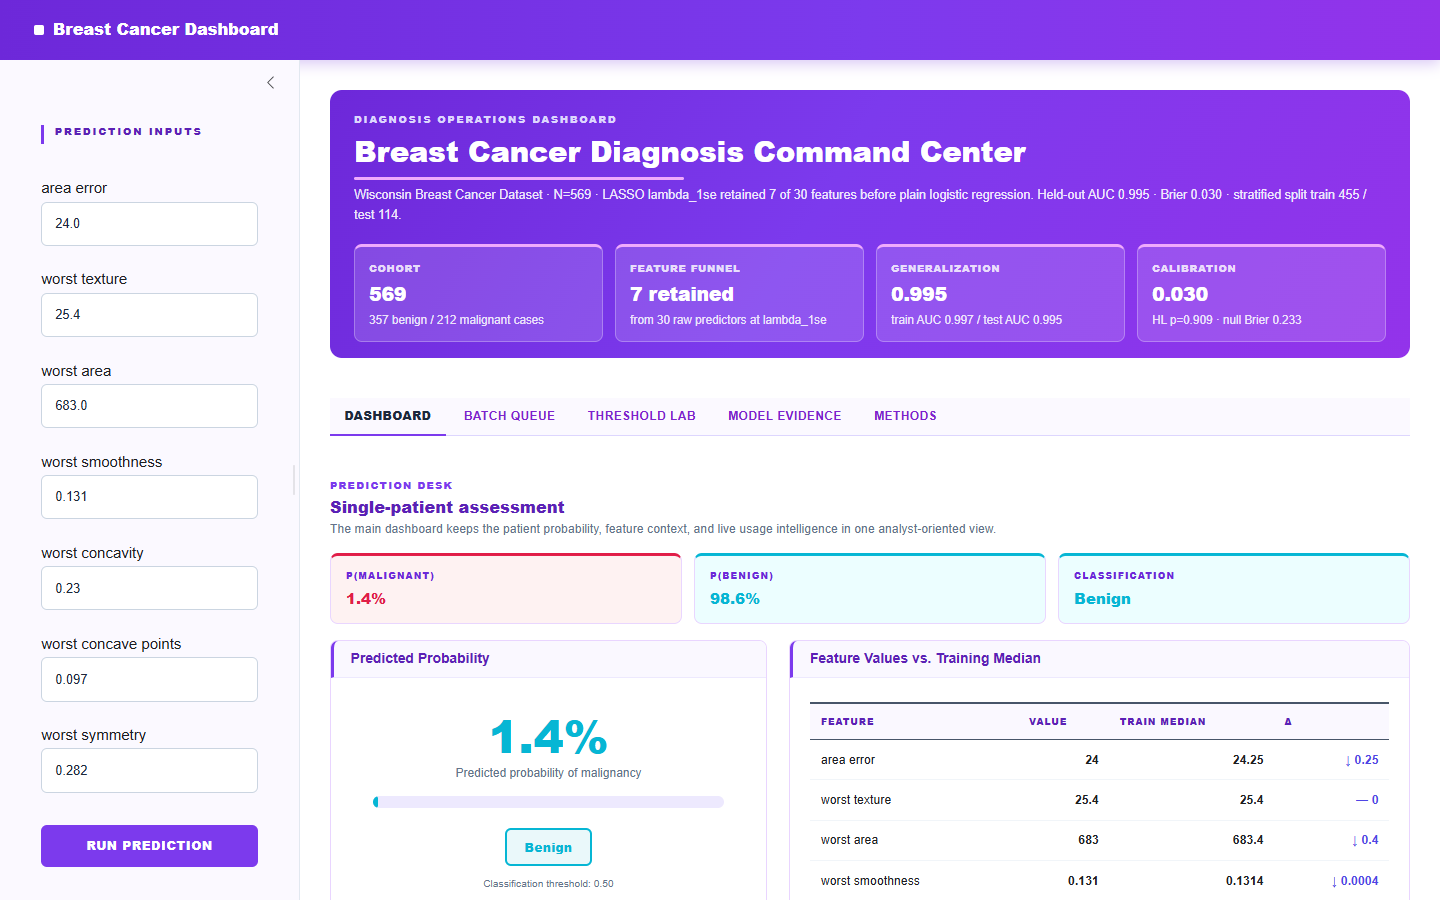
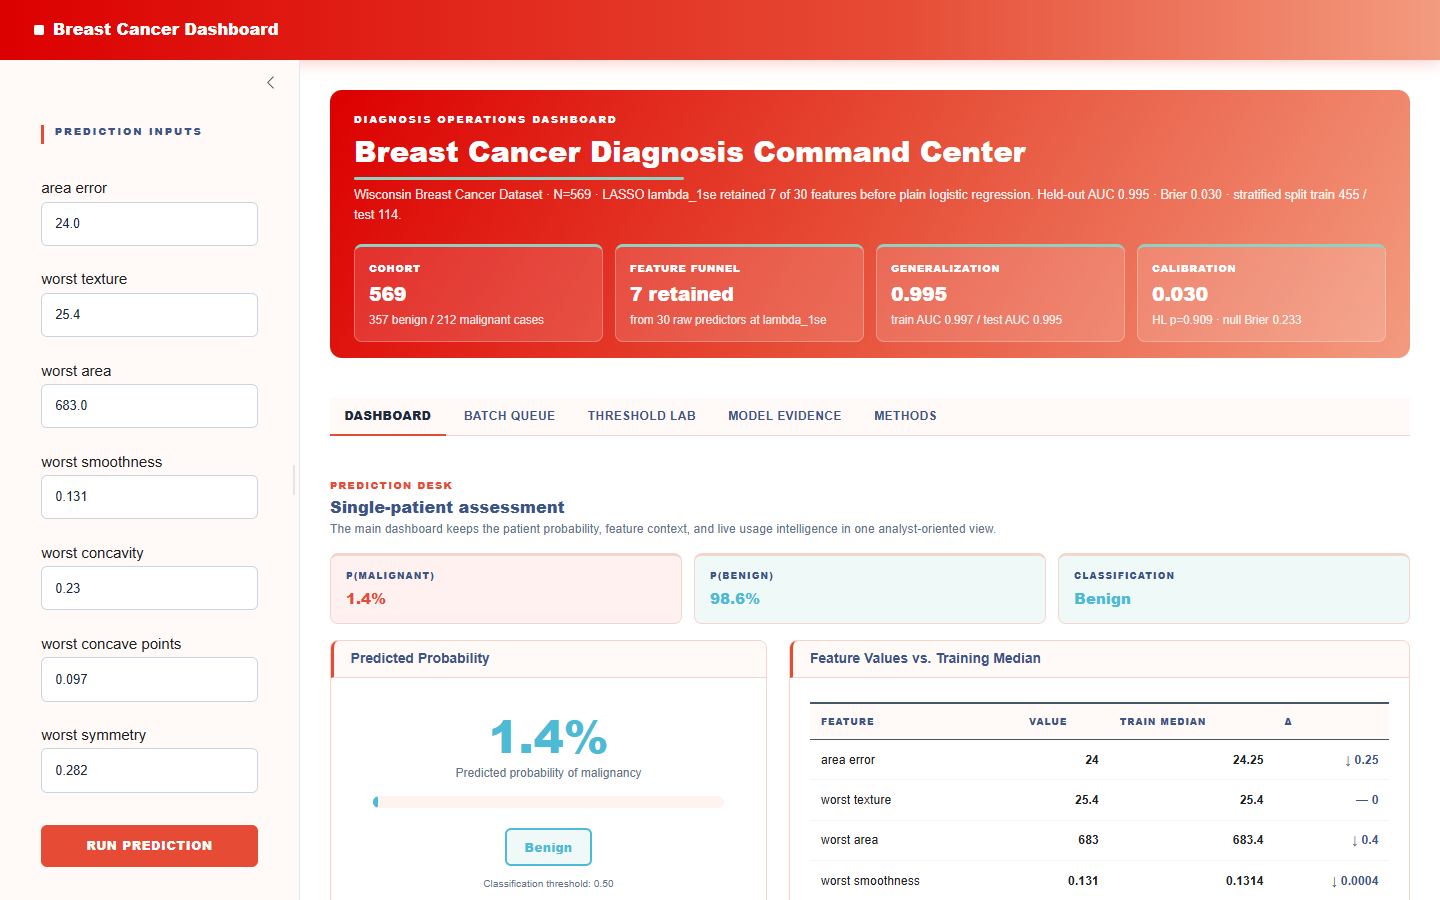
Refresh app color palette

diff --git a/breast_cancer_app.py b/breast_cancer_app.py
@@ -80,16 +80,16 @@ CLR_1SE   = CELL_COLORS[7]
 CLR_MIN   = CELL_COLORS[8]
 CLR_REF   = CELL_COLORS[5]
 _MUTED    = "#64748B"
-_NAVY     = "#4F46E5"
-_ORANGE   = "#F59E0B"
-_EDGE     = "#94A3B8"
-_FAINT    = "#A78BFA"
+_NAVY     = CELL_COLORS[3]
+_ORANGE   = CELL_COLORS[4]
+_EDGE     = CELL_COLORS[5]
+_FAINT    = CELL_COLORS[6]
 _INK_BC   = "#111111"   # reference rules / misc ink
 _AXIS_BC  = "#334155"   # axis spines
 _TICK_BC  = "#475569"   # tick marks / tick labels
 _LABEL_BC = "#1E293B"   # axis labels
-_GRID_BC  = "#EDE9FE"   # subtle lavender gridlines
-_PANEL_BC = "#7C3AED"   # violet panel letters (A, B, ...)
+_GRID_BC  = "#E2E8F0"   # neutral reference grid colour
+_PANEL_BC = CELL_COLORS[0]  # red panel letters (A, B, ...)
 
 plt.rcParams.update({
     "font.family":         "Arial",
@@ -478,7 +478,7 @@ def _fig_buf(fig) -> str:
 
 
 def _P(ax, letter, fs=10.5):
-    """Journal-style panel label: bold violet letter above top-left."""
+    """Journal-style panel label: bold Cell red letter above top-left."""
     ax.set_title(letter, fontsize=fs, fontweight="bold",
                  loc="left", pad=3, color=_PANEL_BC)
 
@@ -950,11 +950,11 @@ def _make_visit_map_bc(visits, user_lat=None, user_lon=None):
 _CSS = """
 
 :root{
-  --red:#E11D48;--blue:#06B6D4;--teal:#A855F7;--navy:#7C3AED;--salmon:#EC4899;
-  --lav:#A78BFA;--mint:#A78BFA;--crimson:#DC2626;--brown:#64748B;--tan:#F59E0B;
+  --red:#E64B35;--blue:#4DBBD5;--teal:#00A087;--navy:#3C5488;--salmon:#F39B7F;
+  --lav:#8491B4;--mint:#91D1C2;--crimson:#DC0000;--brown:#7E6148;--tan:#B09C85;
   --ink:#1E293B;--muted:#64748B;--surface:#FFFFFF;--bg:#FFFFFF;
   --line:#E2E8F0;--line-strong:#CBD5E1;
-  --accent:#7C3AED;--accent-dark:#6D28D9;
+  --accent:#E64B35;--accent-dark:#DC0000;
   --r:8px;--rs:6px;
   --font:'Arial','Helvetica Neue',Helvetica,'Liberation Sans','DejaVu Sans',sans-serif;
   --serif:'Arial','Helvetica Neue',Helvetica,'Liberation Sans',sans-serif;
@@ -968,9 +968,9 @@ html,body{
   color:var(--ink);
   -webkit-font-smoothing:antialiased;
 }
-/* Masthead — journal style: white bar, hairline, purple rule */
+/* Masthead — Cell red clinical theme. */
 .navbar{
-  background:linear-gradient(90deg,#6D28D9,#7C3AED 60%,#9333EA)!important;
+  background:linear-gradient(90deg,#DC0000,#E64B35 62%,#F39B7F)!important;
   border-bottom:none!important;
   box-shadow:0 4px 14px rgba(109,40,217,.25)!important;
   padding:.9rem 1.5rem;
@@ -1302,7 +1302,7 @@ html,body{
 .cm-cell .cm-desc{font-size:.68rem;color:var(--muted);margin-top:5px;line-height:1.35;}
 /* Rich colour layer */
 .hero-banner{
-  background:linear-gradient(120deg,#6D28D9,#7C3AED 45%,#9333EA);
+  background:linear-gradient(120deg,#DC0000,#E64B35 48%,#F39B7F);
   border-radius:12px;
   padding:22px 24px 16px;
   margin-bottom:18px;
@@ -1354,6 +1354,70 @@ html,body{
 }
 .methods p{font-size:.82rem;line-height:1.58;margin:0 0 12px;}
 .bslib-page-fill{height:100dvh!important;}
+
+/* Cell journal palette reset: breast cancer uses red as the primary accent. */
+:root{
+  --red:#E64B35;--blue:#4DBBD5;--teal:#00A087;--navy:#3C5488;--salmon:#F39B7F;
+  --lav:#8491B4;--mint:#91D1C2;--crimson:#DC0000;--brown:#7E6148;--tan:#B09C85;
+  --accent:#E64B35;--accent-dark:#DC0000;--heading:#3C5488;
+  --accent-tint:#FFF9F7;--accent-soft:#FFF3F0;--accent-line:#F3D5CE;
+}
+.navbar{
+  background:linear-gradient(90deg,#DC0000,#E64B35 62%,#F39B7F)!important;
+  box-shadow:0 4px 14px rgba(230,75,53,.24)!important;
+}
+.bslib-sidebar-layout>.sidebar{background:var(--accent-tint)!important;}
+.sec,.form-label,.page-title,.card-header,.chip-lbl,.summary-label,
+.section-title,.note-title,.tbl th,.cm-col-hdr,.cm-row-hdr,
+.methods h4{color:var(--heading)!important;}
+.form-control:focus,.form-select:focus{
+  box-shadow:0 0 0 3px rgba(230,75,53,.16)!important;
+}
+.irs-single{background:var(--accent)!important;}
+.irs-single::before{border-top-color:var(--accent)!important;}
+.card{border-color:var(--accent-line)!important;}
+.card-header{
+  background:var(--accent-tint)!important;
+  border-bottom-color:var(--accent-line)!important;
+}
+.chip,.summary-tile,.figure-frame .shiny-html-output img{
+  border-color:var(--accent-line);
+}
+.nav-tabs{
+  border-bottom-color:var(--accent-line)!important;
+  background:var(--accent-tint)!important;
+}
+.nav-tabs .nav-link{color:var(--heading)!important;}
+.nav-tabs .nav-link:hover{background:var(--accent-soft)!important;}
+.tbl th{background:var(--accent-tint);}
+.tbl tr:hover td{background:var(--accent-tint);}
+.figure-caption,.disclaimer{border-top-color:var(--accent-line);}
+.prob-bar-wrap{background:var(--accent-soft);}
+.cm-col-hdr,.cm-row-hdr{background:var(--accent-soft);}
+.hero-banner{
+  background:linear-gradient(120deg,#DC0000,#E64B35 48%,#F39B7F)!important;
+}
+.hero-banner .hero-kicker,
+.hero-banner .page-title,
+.hero-banner .summary-label{color:#FFFFFF!important;}
+.hero-banner .summary-detail{color:rgba(255,255,255,.84)!important;}
+.hero-banner .page-title::after{background:#91D1C2;}
+.hero-banner .summary-tile{border-top-color:#91D1C2!important;}
+.chip,.metric-chip,.summary-tile{background:var(--tint,var(--accent-soft));}
+.stage-tile{background:var(--stint,var(--accent-soft));}
+.summary-tile.accent-blue{--tile:#4DBBD5;--tint:#EFF8FA;--tile-ink:#3C5488;}
+.summary-tile.accent-teal{--tile:#00A087;--tint:#EFF9F7;--tile-ink:#00A087;}
+.summary-tile.accent-navy{--tile:#3C5488;--tint:#F1F3F7;--tile-ink:#3C5488;}
+.summary-tile.accent-salmon{--tile:#F39B7F;--tint:#FFF4F0;--tile-ink:#E64B35;}
+.summary-tile.accent-crimson{--tile:#DC0000;--tint:#FFF1F0;--tile-ink:#DC0000;}
+.stage-1{--stage:#4DBBD5;--stint:#EFF8FA;--stage-ink:#3C5488;}
+.stage-2{--stage:#00A087;--stint:#EFF9F7;--stage-ink:#00A087;}
+.stage-3{--stage:#3C5488;--stint:#F1F3F7;--stage-ink:#3C5488;}
+.stage-4{--stage:#F39B7F;--stint:#FFF4F0;--stage-ink:#E64B35;}
+.cm-cell.cm-tp,.cm-cell.cm-fn{background:#FFF1F0;border-color:#F39B7F;}
+.cm-cell.cm-fp{background:#FFF8F0;border-color:#B09C85;}
+.cm-cell.cm-tn{background:#EFF9F7;border-color:#91D1C2;}
+.fig-no{color:var(--accent);}
 @media (max-width: 1100px){
   .summary-grid,.note-grid{grid-template-columns:repeat(2,minmax(0,1fr));}
 }
@@ -1881,12 +1945,12 @@ def server(input, output, session):
         p_mal = 1.0 - p_ben
         cls  = "Malignant" if p_mal >= 0.5 else "Benign"
         clr  = CLR_MAL if p_mal >= 0.5 else CLR_BEN
-        _tint = "#FEF2F2" if cls == "Malignant" else "#ECFEFF"
+        _tint = "#FFF1F0" if cls == "Malignant" else "#EFF9F7"
         chips = (
-            f'<div class="chip" style="--tile:{CLR_MAL};--tint:#FEF2F2;">'
+            f'<div class="chip" style="--tile:{CLR_MAL};--tint:#FFF1F0;">'
             f'<span class="chip-lbl">P(Malignant)</span>'
             f'<span class="chip-val" style="color:{CLR_MAL};">{p_mal*100:.1f}%</span></div>'
-            f'<div class="chip" style="--tile:{CLR_BEN};--tint:#ECFEFF;">'
+            f'<div class="chip" style="--tile:{CLR_BEN};--tint:#EFF9F7;">'
             f'<span class="chip-lbl">P(Benign)</span>'
             f'<span class="chip-val" style="color:{CLR_BEN};">{p_ben*100:.1f}%</span></div>'
             f'<div class="chip" style="--tile:{clr};--tint:{_tint};">'
@@ -1902,7 +1966,7 @@ def server(input, output, session):
         cls  = "Malignant" if p_mal >= 0.5 else "Benign"
         clr  = CLR_MAL if p_mal >= 0.5 else CLR_BEN
         pct  = p_mal * 100
-        badge_bg = "#EDF2FA" if p_mal >= 0.5 else "#EAF8FA"
+        badge_bg = "#FFF1F0" if p_mal >= 0.5 else "#EFF9F7"
         return ui.HTML(f"""
 <div class="prob-gauge">
   <div class="prob-num" style="color:{clr};">{pct:.1f}%</div>
